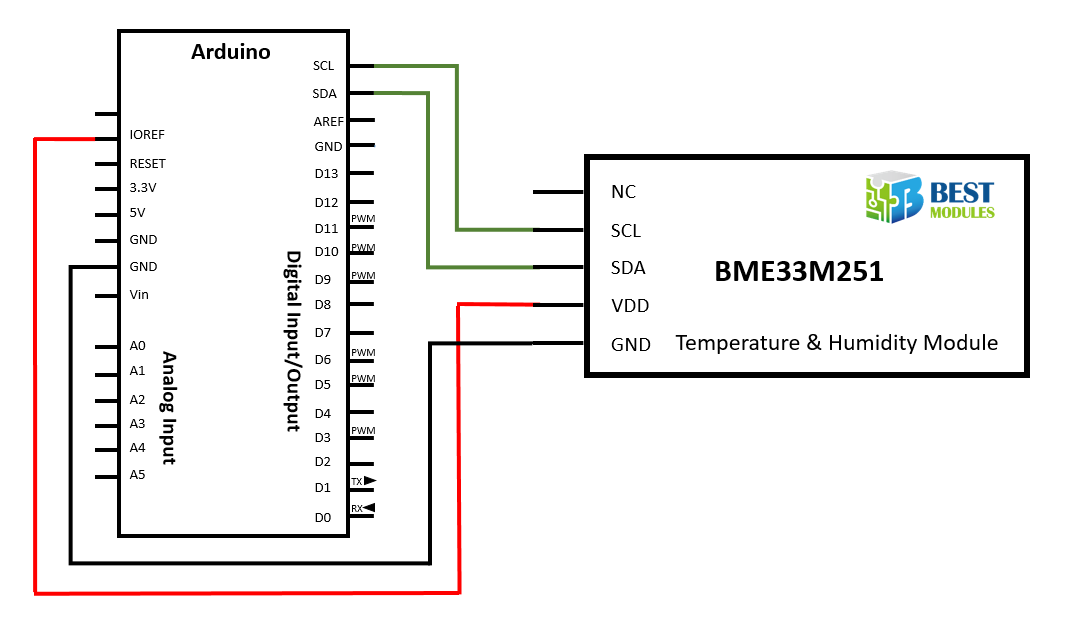
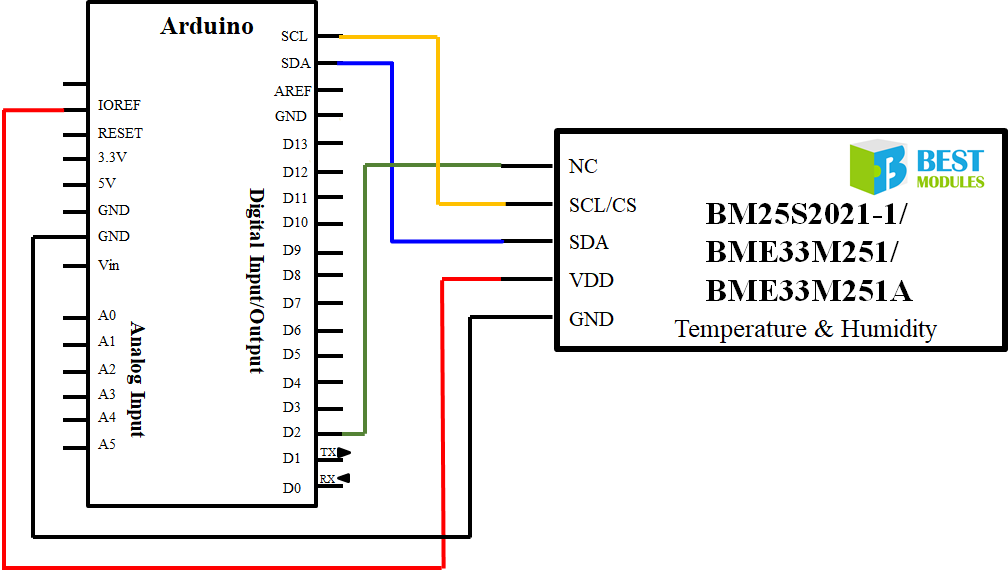
Add files via upload

Changed region(s): [[0.0, 0.0, 1.0, 1.0]]

diff --git a/src/BM25S2021-1.cpp b/src/BM25S2021-1.cpp
@@ -1,17 +1,16 @@
 /*****************************************************************
 File:          BM25S2021-1.cpp
-Author:        BESTMODULES
+Author:        BEST MODULES CORP.
 Description:   The sensor with IIC and obtain the corresponding value
-History：         
-V1.0.1   -- initial version；2023-03-03；Arduino IDE :v1.8.15
+Version:       V1.0.2   -- 2025-06-30
 ******************************************************************/
 #include "BM25S2021-1.h"
 
 /**********************************************************
 Description: Constructor
 Parameters:  *twotheWire: &Wire or &Wire1 or &Wire2
-Return:  
-Others:      
+Return:  None
+Others:  None     
 **********************************************************/
 BM25S2021_1::BM25S2021_1(TwoWire *theWire)
 {
@@ -20,8 +19,8 @@ BM25S2021_1::BM25S2021_1(TwoWire *theWire)
 /**********************************************************
 Description: Constructor
 Parameters:  datapin: As a pin for transmitting data 
-Return:   
-Others:      
+Return:  None
+Others:  None    
 **********************************************************/
 BM25S2021_1::BM25S2021_1(uint8_t datapin)
 {
@@ -30,9 +29,9 @@ BM25S2021_1::BM25S2021_1(uint8_t datapin)
 }
 /**********************************************************
 Description: BM25S2021_1 initial
-Parameters:
-Return:    void
-Others:      
+Parameters: void
+Return:     void
+Others:     None 
 **********************************************************/
 void BM25S2021_1::begin()
 {
@@ -48,7 +47,7 @@ Description: readTemperature
 Parameters:  isFahrenheit = true:Fahrenheit degree
              isFahrenheit = false:centigrade(default)
 Return:      temperature , unit:℃（default） or  ℉ 
-Others:      
+Others:      None
 **********************************************************/
 float BM25S2021_1::readTemperature(bool isFahrenheit)
 {
@@ -105,9 +104,9 @@ float BM25S2021_1::readTemperature(bool isFahrenheit)
 
 /**********************************************************
 Description: readHumidity
-Parameters:
+Parameters:  void
 Return:      humidity
-Others:      
+Others:      None
 **********************************************************/
 float BM25S2021_1::readHumidity()
 {
@@ -150,9 +149,9 @@ float BM25S2021_1::readHumidity()
 
 /**********************************************************
 Description: Get device Ver
-Parameters:       
+Parameters:  void     
 Return:      Ver       
-Others:      
+Others:      None 
 **********************************************************/
 uint8_t BM25S2021_1::getFWVer()
 {
@@ -169,9 +168,9 @@ uint8_t BM25S2021_1::getFWVer()
 
 /**********************************************************
 Description: Get device PID
-Parameters:       
+Parameters:  void     
 Return:      PID       
-Others:      
+Others:      None
 **********************************************************/
 uint16_t BM25S2021_1::getPID()
 {
@@ -188,9 +187,9 @@ uint16_t BM25S2021_1::getPID()
 
 /**********************************************************
 Description: Get device SN
-Parameters:       
+Parameters:  void     
 Return:      SN       
-Others:      
+Others:      None
 **********************************************************/
 uint32_t BM25S2021_1::getSN()
 {
@@ -209,7 +208,7 @@ uint32_t BM25S2021_1::getSN()
 Description: read Temperature RawData
 Parameters:  rawTemperature:Variables for storing temperature RawData
 Return:      temperature Raw Data(uint16_t)       
-Others:      
+Others:      None
 **********************************************************/
 uint16_t BM25S2021_1::readRawTemperature()
 {
@@ -256,7 +255,7 @@ Description: read Humidity RawData
 Parameters:  rawHumidity:Variables for storing humidity  Rawdata
 Output:      humidity  Raw data(uint16_t)
 Return:      READ_OK / READ_ERROR       
-Others:      
+Others:      None
 **********************************************************/
 uint16_t BM25S2021_1::readRawHumidity()
 {
@@ -297,9 +296,9 @@ uint16_t BM25S2021_1::readRawHumidity()
 
 /**********************************************************
 Description: Clear data buff
-Parameters:  
+Parameters:  void
 Return:    void 
-Others:      
+Others:    None  
 **********************************************************/
 void BM25S2021_1::clearBuff()
 {
@@ -324,7 +323,7 @@ Description: writeData
 Parameters:  wbuf:Variables for storing Data to be sent
              wlen:Length of data sent
 Return:    void
-Others:      
+Others:    None  
 **********************************************************/
 void BM25S2021_1::writeBytes(uint8_t wbuf[], uint8_t wlen)
 {
@@ -344,7 +343,7 @@ Description: readData
 Parameters:  rbuf:Variables for storing Data to be obtained
              rlen:Length of data to be obtained
 Return:      READ_OK/READ_ERROR  
-Others:      
+Others:      None
 **********************************************************/
 uint8_t BM25S2021_1::readBytes(uint8_t rbuf[], uint8_t rlen)
 {
@@ -374,7 +373,7 @@ Description: CRC Correction
 Parameters:  *buff：Data obtained through IIC
               len ：Gets the total length of the data
 Return:      Checksum calculate by CRC-16
-Others:      
+Others:      None
 **********************************************************/
 uint8_t BM25S2021_1::cheackCRC(uint8_t *buff,uint8_t len)
 {
@@ -401,9 +400,9 @@ uint8_t BM25S2021_1::cheackCRC(uint8_t *buff,uint8_t len)
 }
 /**********************************************************
 Description: readOneWireData
-Parameters:  
+Parameters:  void
 Return:      READ_OK/ERROR_TIMEOUT
-Others:      
+Others:      None
 **********************************************************/
 uint8_t BM25S2021_1::readOneWireData()
 {
@@ -467,7 +466,7 @@ uint8_t BM25S2021_1::readOneWireData()
 Description: check Sum
 Parameters:  pin : ONEWIRE data pin
 Return:      READ_OK/ERROR_CHECKSUM   
-Others:      
+Others:      None
 **********************************************************/
 int BM25S2021_1::checkSum()
 {

diff --git a/src/BM25S2021-1.h b/src/BM25S2021-1.h
@@ -1,9 +1,8 @@
 /*****************************************************************
 File:             BM25S2021-1.h
-Author:           BESTMODULES
+Author:           BEST MODULES CORP.
 Description:      Define classes and required variables
-History：         
-V1.0.1-- initial version；2023-03-03；Arduino IDE :v1.8.15
+Version:          V1.0.2   -- 2025-06-30
 ******************************************************************/
 #ifndef BM25S2021_1_h
 #define BM25S2021_1_h

diff --git a/README.md b/README.md
@@ -5,7 +5,7 @@
 BM25S2021-1
 ===========================================================
 
-The BEST MODULES BM25S2021-1 is a temperature and humidity digital sensor, which uses the I2C or the One-wire communication method. This document provides the description of the BM25S2021-1 Arduino Lib functions and how to install the Arduino Lib. The example demonstrates the function of reading the temperature and humidity values with the BME33M251.
+The BEST MODULES BM25S2021-1 is a temperature and humidity digital sensor, which uses the I2C or the One-wire communication method. This document provides the description of the BM25S2021-1 Arduino Lib functions and how to install the Arduino Lib. The example demonstrates the function of reading the temperature and humidity values with the BME33M251/BME33M251A.
 
 #### Applicable types:
 <div align=center>
@@ -13,7 +13,8 @@ The BEST MODULES BM25S2021-1 is a temperature and humidity digital sensor, which
 |Part No.   |Description                             |
 |:---------:|:--------------------------------------:|
 |BM25S2021-1 |Temperature and humidity digital sensor|
-|BME33M251  |Integrated BM25S2021-1 sensor           |
+|BME33M251   |Integrated BM25S2021-1 sensor           |
+|BME33M251A  |Integrated BM25S2021-1 sensor           |
 
 </div> 
 
@@ -30,12 +31,15 @@ Repository Contents
 Documentation 
 -------------------
 
-* **[BM25S2021-1 Arduino Library V1.0.1 Description v100](https://www.bestmodulescorp.com/bm25s2021-1.html#tab-product2)** - Arduino Library Description.
+* **[BM25S2021-1 Arduino Library Description](https://www.bestmodulescorp.com/bm25s2021-1.html)** - Arduino Library Description.
 
 Version History  
 -------------------
 
-* **V1.0.1** - Initial public release.
+* **V1.0.1**  
+&emsp;&emsp;- Initial public release.
+* **V1.0.2**  
+&emsp;&emsp;- Add applicable models: BME33M251A; 
 
 License Information
 -------------------
@@ -44,8 +48,8 @@ This product is _**open source**_!
 
 Please review the LICENSE.md file for license information. 
 
-If you have any questions or concerns on licensing, please contact technical support on our BESTMODULES Email:service@bestmodulescorp.com.
+If you have any questions or concerns on licensing, please contact technical support on our BEST MODULES CORP. Email:service@bestmodulescorp.com.
 
 Distributed as-is; no warranty is given.
 
-BESTMODULES
+BEST MODULES CORP.
